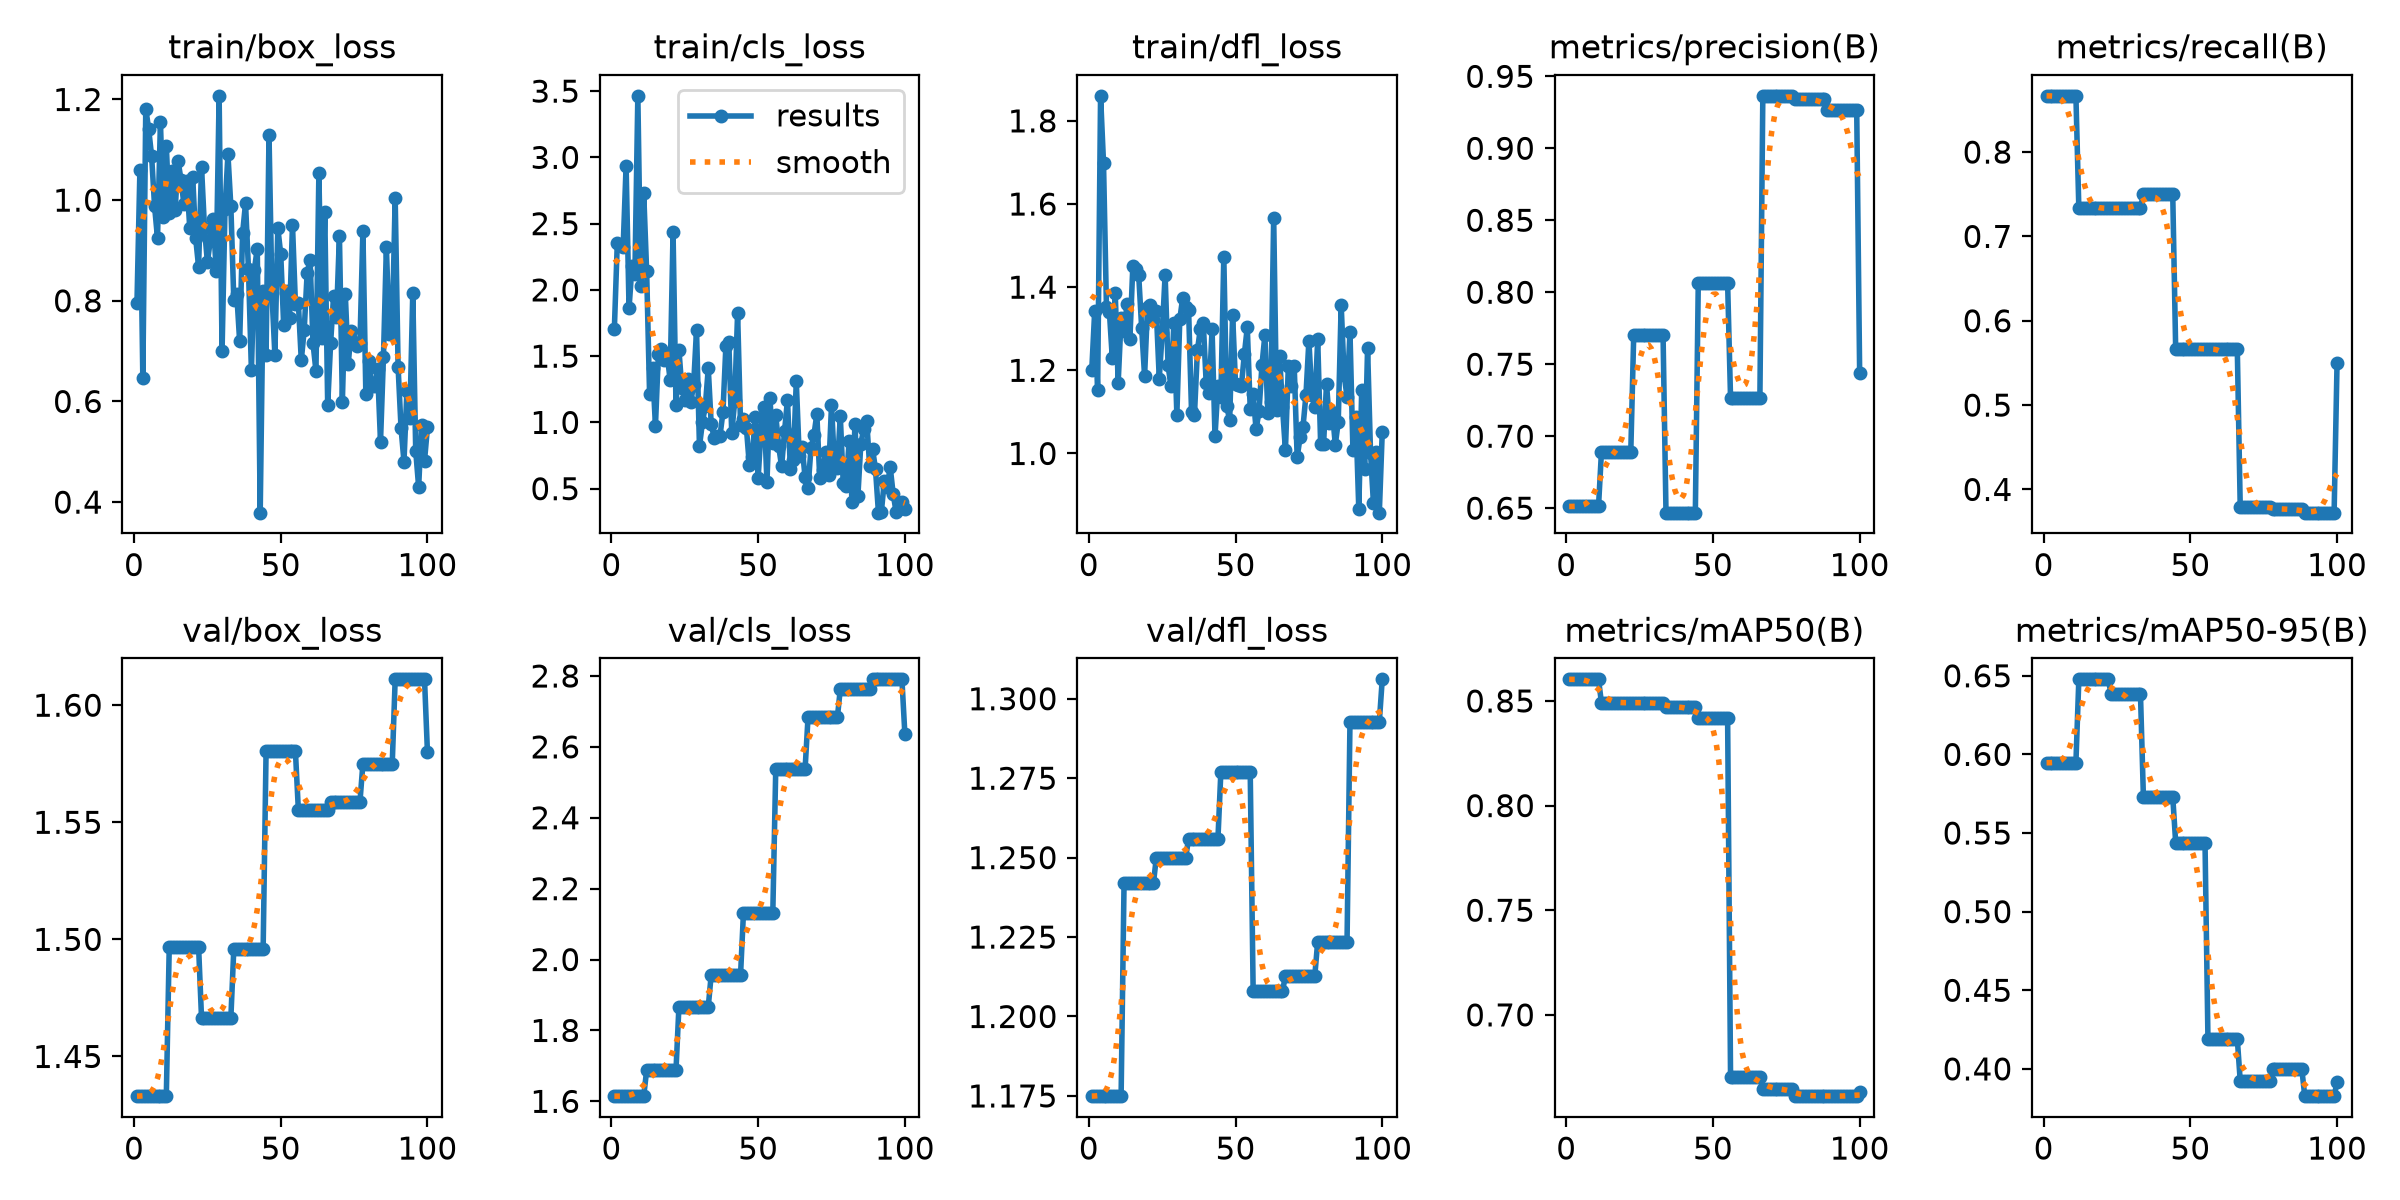
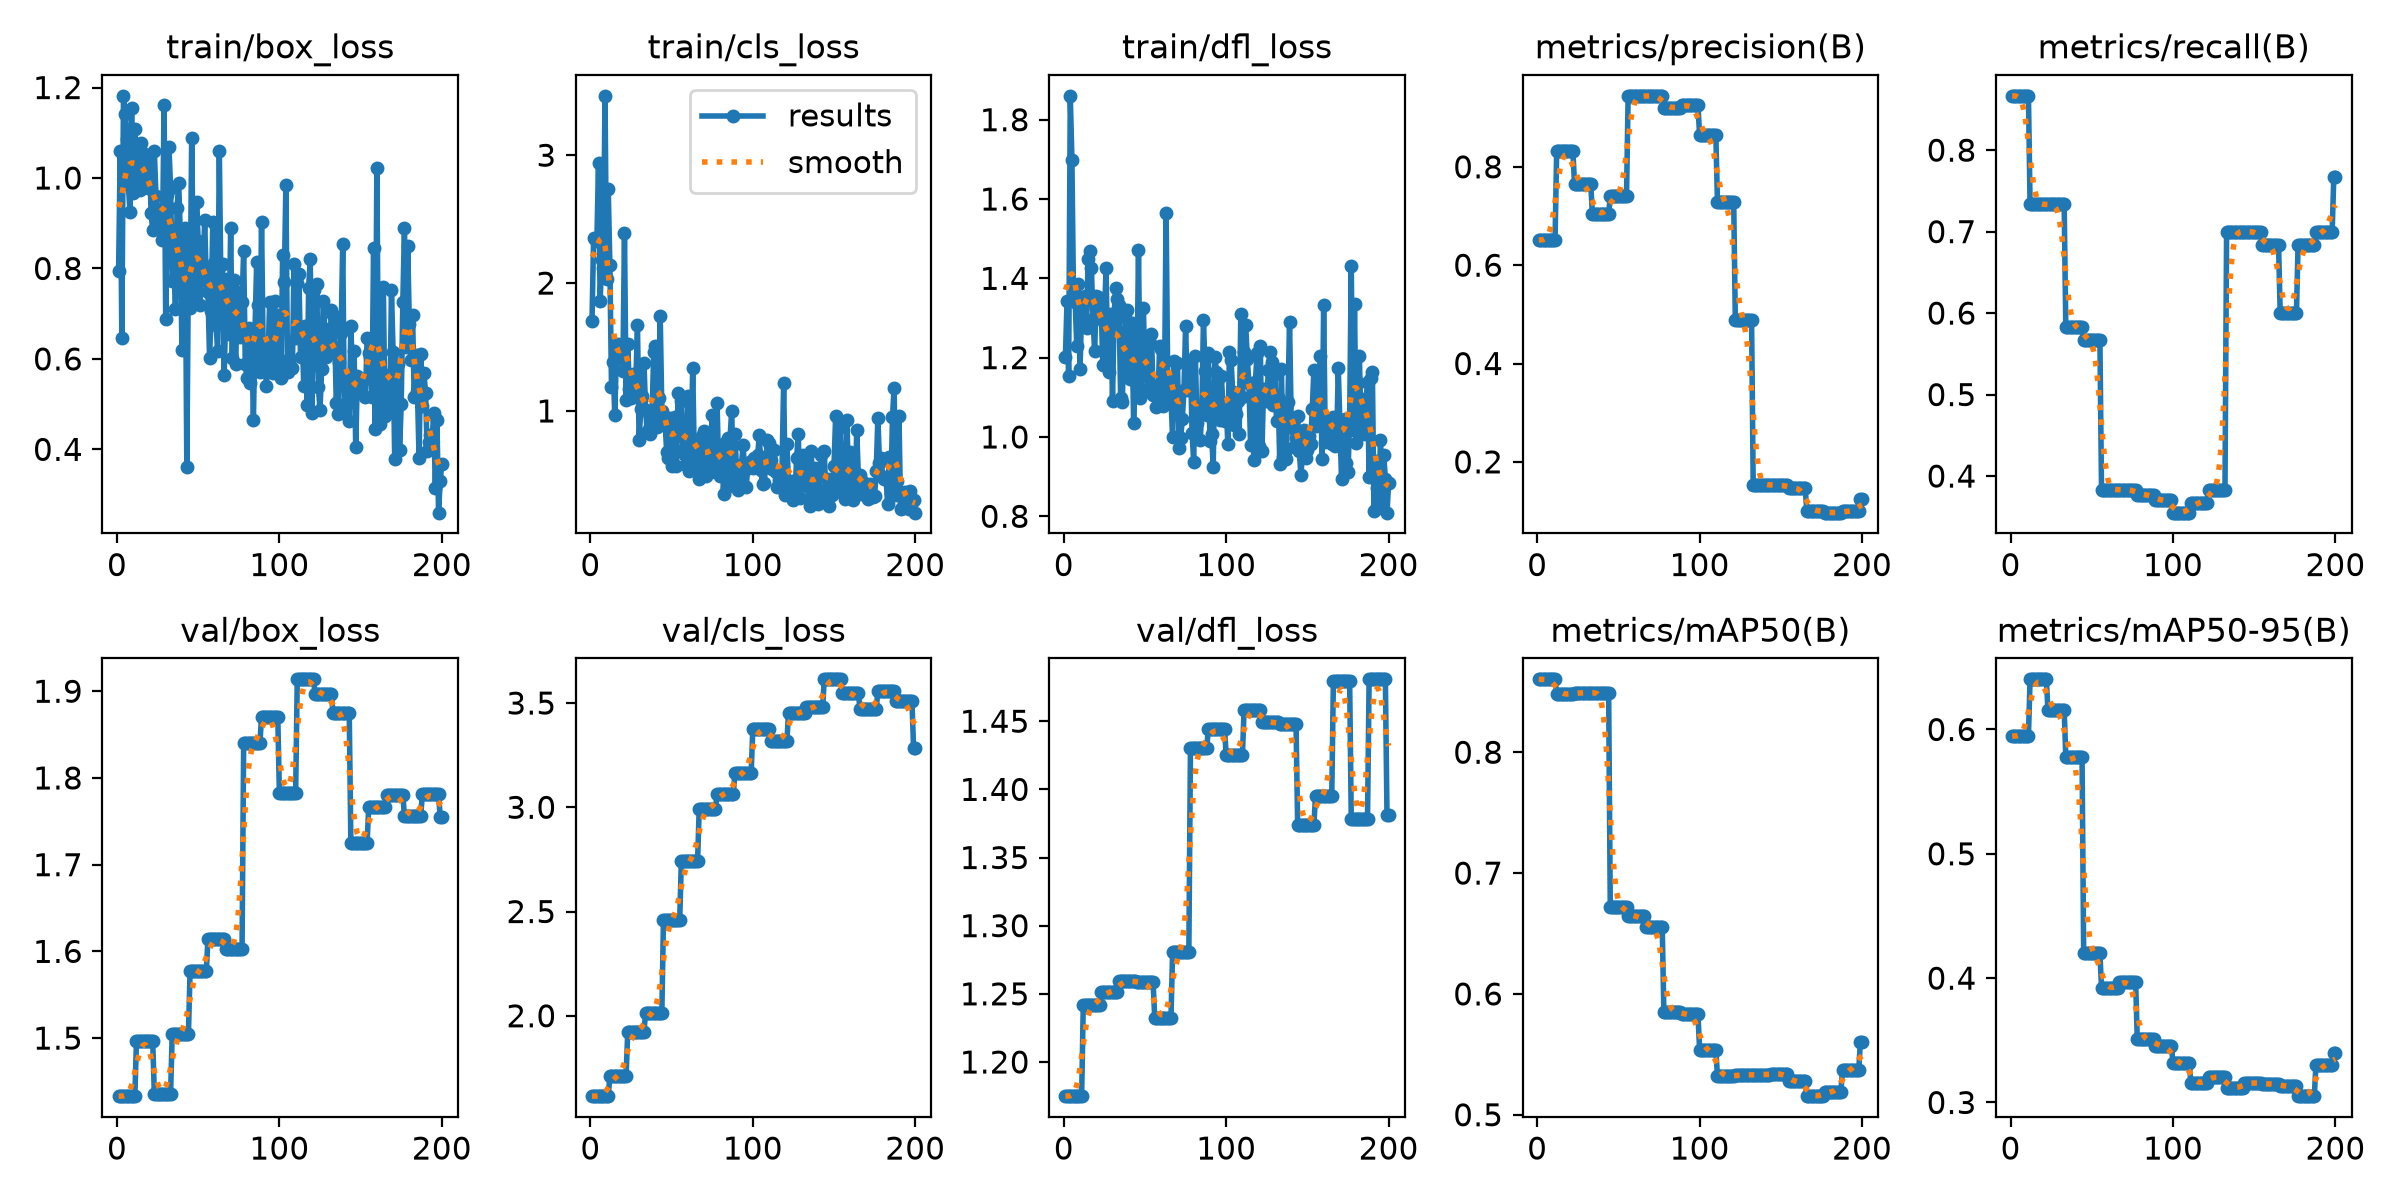
Path B: fixed 200-epoch fine-tune on coco8

diff --git a/scripts/02_finetune_few_epochs.py b/scripts/02_finetune_few_epochs.py
@@ -25,8 +25,8 @@ FIG.mkdir(parents=True, exist_ok=True)
 MODEL_NAME = "yolov10n.pt"
 DATA = "coco8.yaml"
 IMGSZ = 640
-MAX_EPOCHS = 100  # fixed run length requested by user
-PATIENCE = 0  # 0 = disable early-stopping; run all 100 epochs
+MAX_EPOCHS = 200  # fixed run length requested by user
+PATIENCE = 0  # 0 = disable early-stopping; run all 200 epochs
 BATCH = 4
 DEVICE = "cpu"
 
@@ -165,7 +165,7 @@ def main() -> None:
         },
         "note": (
             f"Fixed {MAX_EPOCHS}-epoch fine-tune on tiny coco8 "
-            f"(patience={PATIENCE}; 0 means no early-stop). Not full COCO."
+            f"(patience={PATIENCE}; 0 means no early-stop). Not full COCO training."
         ),
         "train_save_dir": str(getattr(train_results, "save_dir", OUT / "train")),
     }

diff --git a/results/comparison.md b/results/comparison.md
@@ -6,7 +6,7 @@
 |---|---|---:|---|
 | Paper YOLOv10-N | COCO val2017 full | 38.5% | Official paper number |
 | A Official `.pt` (ours) | coco8.yaml | 67.92% | No train; device=cpu |
-| B Fine-tune until convergence (ours) | coco8.yaml | 64.81% | ran=100, best≈22; patience=0; device=cpu |
+| B Fine-tune until convergence (ours) | coco8.yaml | 64.03% | ran=200, best≈22; patience=0; device=cpu |
 
 ## Interpretation
 
